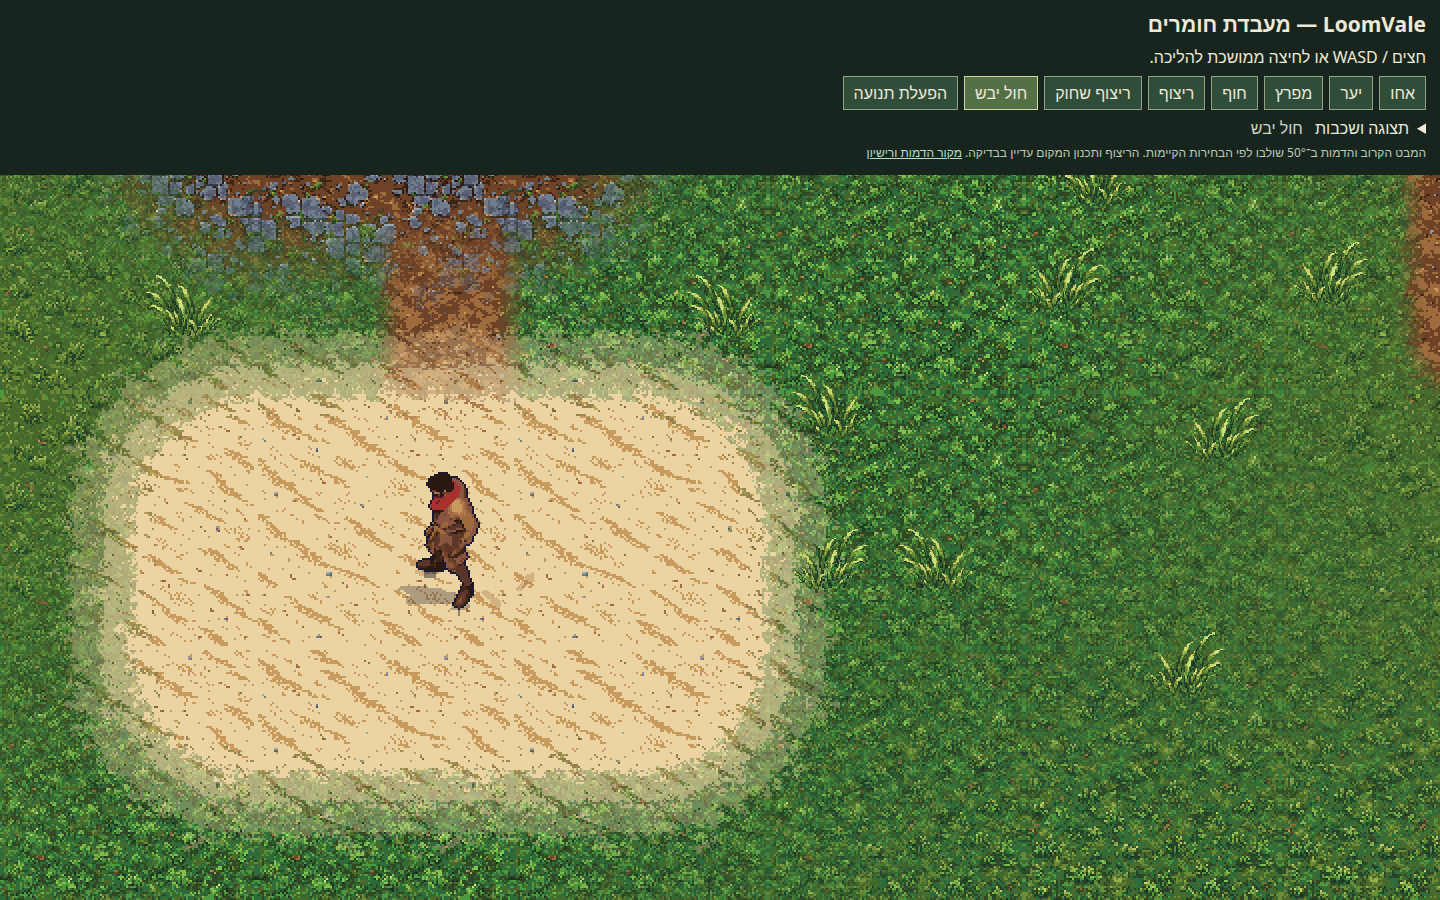
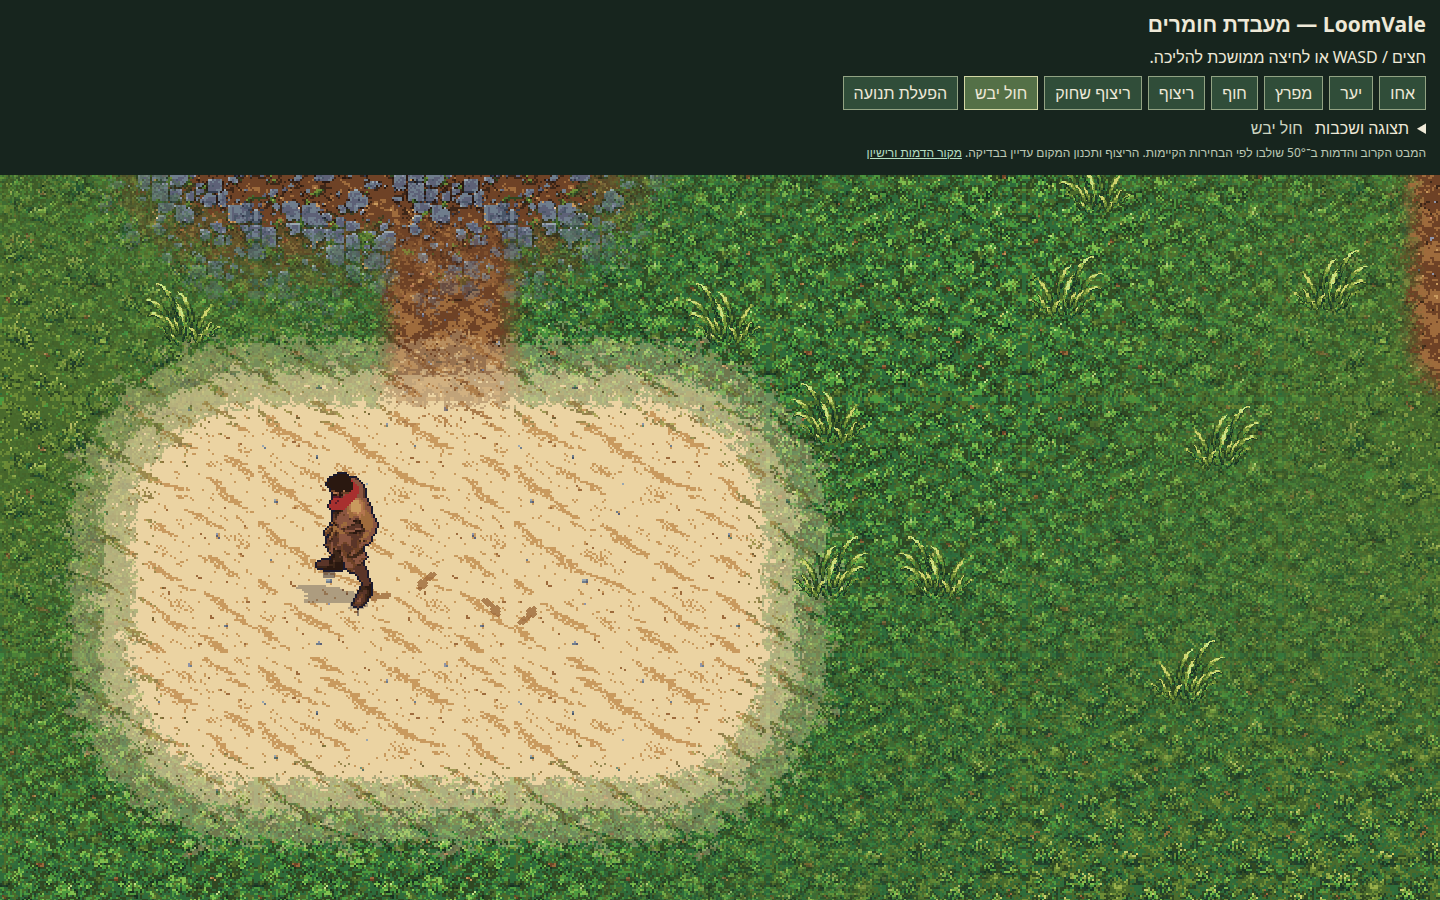
fix(study): make sand footprints visible and link directly to sand

diff --git a/game/public/art-review/world-footprints-2026-10-29/index.html b/game/public/art-review/world-footprints-2026-10-29/index.html
@@ -14,8 +14,8 @@
   .phone img { max-height: 900px; }
 </style>
 <h1>עקבות בחול — 29.10.2026</h1>
-<p><a href="../../world-study.html">ללכת בעולם</a> · <a href="../world-2026-10-29/index.html">החול וההליכה שאושרו</a></p>
-<p>התוספת הבאה: הרגל משאירה עקבה בדריכה על החול. העקבות דועכות בארבעה שלבים ונעלמות אחרי 20 שניות. עמידה או תנועה חסומה אינן יוצרות עקבות.</p>
+<p><a href="../../world-study.html?view=sand">ללכת בעולם</a> · <a href="../world-2026-10-29/index.html">החול וההליכה שאושרו</a></p>
+<p>עודכן אחרי בדיקת נראות: הרגל משאירה עקבה בדריכה על החול. העקבות דועכות בארבעה שלבים ונעלמות אחרי 20 שניות. עמידה או תנועה חסומה אינן יוצרות עקבות.</p>
 <figure><img src="desktop-footprints.png" alt="הדמות והעקבות שנותרו בחול אחרי הליכה ופניות"><figcaption>מחשב · עקבות בדריכה, מתחת לדמות ולצללים. אפשר להסתיר ולהחזיר אותן דרך „עקבות” בתצוגה ושכבות.</figcaption></figure>
 <figure class="phone"><img src="phone-footprints.png" alt="עקבות בחול אחרי הליכה במגע בטלפון"><figcaption>טלפון · הליכה במגע עם העדפת תנועה מופחתת.</figcaption></figure>
 <p>זו תוספת למעבדה המחוברת. הריצוף ותכנון המקום נשארים בסקירה הנפרדת שלהם.</p>

diff --git a/game/e2e/world-study.ts b/game/e2e/world-study.ts
@@ -50,8 +50,11 @@ let browser: Browser | undefined;
 try {
   browser = await Browser.launch();
   const desktop = await browser.newPage({ width: 1440, height: 900, mobile: false });
-  await desktop.goto(url);
+  const sandUrl = new URL(url);
+  sandUrl.searchParams.set('view', 'sand');
+  await desktop.goto(sandUrl.href);
   await desktop.waitFor('!!window.__worldStudy', 'desktop world fixture', 60000);
+  if (await desktop.eval<string>('document.getElementById("status").textContent') !== 'חול יבש') throw Error('sand review link did not open on sand');
   if (await desktop.eval<number>('window.__worldStudy.footprints.stats.marks') !== 0) throw Error('standing created footprints');
   await checkCamera(desktop, 1, false);
   if (await desktop.eval<number>('window.__worldStudy.cameras.main.zoom') !== 2) throw Error('desktop default must be the picked close view');

diff --git a/game/test/world-study-footsteps.test.ts b/game/test/world-study-footsteps.test.ts
@@ -42,7 +42,7 @@ test('a relocation or repeated start in place cannot draw a trail through the ma
 });
 
 test('marks have four opacity levels and expire at twenty seconds, with bounded memory', () => {
-  expect([0, 4999, 5000, 10_000, 15_000, 19_999, 20_000].map(footprintAlpha)).toEqual([.32, .32, .24, .16, .08, .08, 0]);
+  expect([0, 4999, 5000, 10_000, 15_000, 19_999, 20_000].map(footprintAlpha)).toEqual([.8, .8, .6, .4, .2, .2, 0]);
   const trail = new WorldStudyFootsteps(() => true);
   for (let i = 0; i < 100; i++) {
     trail.advance(i * 2, body(i * 10, 1, false));

diff --git a/game/src/world-study-footsteps.ts b/game/src/world-study-footsteps.ts
@@ -2,7 +2,7 @@ import type { StudyFoot } from './world-study-contact';
 
 export const FOOTPRINT_LIFE_MS = 20_000;
 export const FOOTPRINT_LIMIT = 64;
-export const FOOTPRINT_ALPHA = [.32, .24, .16, .08] as const;
+export const FOOTPRINT_ALPHA = [.8, .6, .4, .2] as const;
 export interface StepFoot extends StudyFoot { foot: string }
 export interface FootstepBody {
   x: number; y: number; dx: number; dy: number; mirrored: boolean;

diff --git a/game/src/world-study.ts b/game/src/world-study.ts
@@ -121,6 +121,8 @@ class WorldStudy extends Phaser.Scene {
     }
     updateMotionLabel();
     this.updatePlaceLabel();
+    const initialView = new URLSearchParams(location.search).get('view');
+    if (initialView) this.jumpToView(initialView);
     (window as unknown as { __worldStudy: WorldStudy }).__worldStudy = this;
   }
 

diff --git a/docs/design/frames/rich-world-footprints-2026-10-29/README.md b/docs/design/frames/rich-world-footprints-2026-10-29/README.md
@@ -56,3 +56,13 @@ captures are served from
 uses real keyboard/touch walking, checks the trail, layer toggle and bounded
 image allocation, then drives the effect clock beyond twenty seconds to verify
 resource removal. Pure tests cover all four fade steps and edge rejection.
+
+## Visibility correction after owner review
+
+The owner reported no visible footprints. The initial 32% opacity was too close
+to the sand grain. Fresh marks now use 80%, then 60%, 40% and 20%, with the same
+twenty-second expiry. No source drawing or approved ground asset changed.
+`/world-study.html?view=sand` opens directly on the existing sand viewpoint; the
+default spawn remains unchanged. A real keyboard walk and same-frame layer
+on/off capture measured 350 visibly darker pixels (at least 30 RGB levels),
+rather than relying on display-object counts alone.
